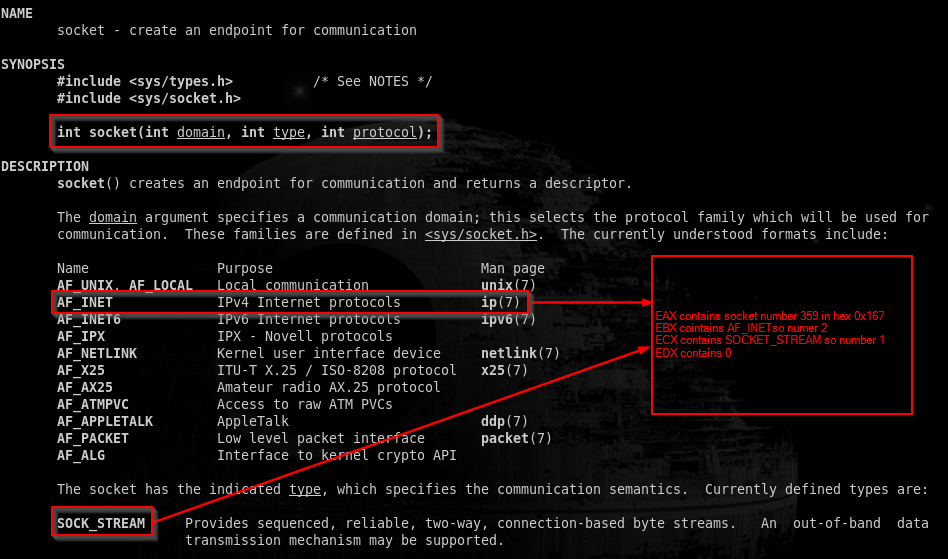
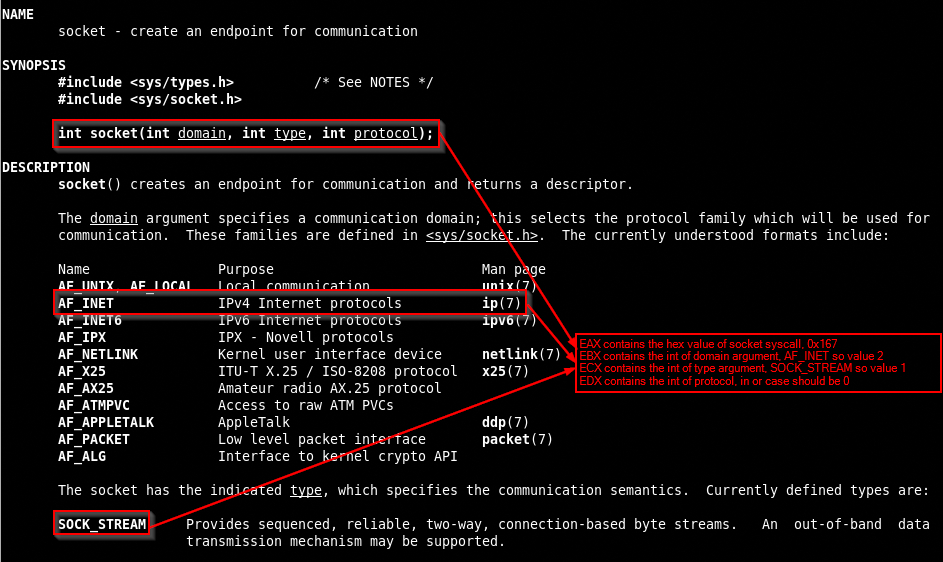
socket update

diff --git a/_posts/2019-09-19-SLAE32-1.md b/_posts/2019-09-19-SLAE32-1.md
@@ -15,7 +15,7 @@ tags:
 ![](/assets/images/SLAE32/shellcoding32.png)
 
 ## Introduction
-This is the first assignment from Viviek Rmachandran SLAE32 course.<br>
+This is the first assignment from Viviek Rmachandran's SLAE32 course.<br>
 The first part of the assignment request to create a Shell_Bind_TCP shellcode with these properties:
 - Binds to a port 
 - Execs Shell on incoming connecton
@@ -25,6 +25,7 @@ According with [Infosec Institute](https://resources.infosecinstitute.com/icmp-r
 > *Bind shell is a type of shell in which the target machine opens up a communication port or a listener on the victim machine and waits for an incoming connection. The attacker then connects to the victim machine’s listener which then leads to code or command execution on the server.* <br>
 
 The last video lesson of SLAE course analyzes a tcp bind shell payload created with msfvenom so the creation process is well documented, well known and the shell structure too, so the effort for this assignment is to pickup infos about all the syscalls needed for the tcp bind shell using the linux kernel unistd.h header and the man 2 <syscall> command.
+We will use also the [Unix Network Programming Vol.1](https://scoecomp.files.wordpress.com/2014/02/2003-unix-network-programming-vol-1-3rd-ed.pdf), that is foundamental to learn the substructures required in some syscalls.
 Starting review the case study in the course, taking the png created with sctest of libemu tool suite, we can extract the elements needed to build our bind shellcode:
 
 - socket
@@ -34,15 +35,19 @@ Starting review the case study in the course, taking the png created with sctest
 - dup2 (3 times)
 - execve
 
-i can simply copy the assembly code, but this is not the scope of the viviek's assignment. What he would to intend with the assignment is to understand how the student should develop a shellcode starting from sudying the linux syscalls, what they need to complete assignment and how they can transform the syscall and its argument in assembly code.
+i can simply copy the assembly code, but this is not the scope of the Viviek's assignment. What he would to intend with the assignment is to understand how the student should develop a shellcode starting from sudying the linux syscalls, what they need to complete assignment and how they can transform the syscall and its argument in assembly code.
 So let's start the fun part.
 
 ## SOCKET
-We can start searching the socket syscall by cat'ting the unistd_32 headers of the linux kerne, then check the socket syscall man page.<br>
+We can start searching the socket syscall by cat'ting the unistd_32 headers of the linux kernel, then check the socket syscall man page.<br>
 ![](/assets/images/SLAE32/assignment_1/socket_1.png)<br>
 ![](/assets/images/SLAE32/assignment_1/socket_2.png)
 ![](/assets/images/SLAE32/assignment_1/socket_3.png)
-Mmm, seems the socket accept 3 arguments.<br>
+Mmm, seems the socket accept 3 arguments, let we check also the book to learn what's the role of there arguments.<br>
+```bash
+man 2 socket
+```
+
 According to what we have studied in the course the infos found with the ```man 2``` command has to be distriuited with this criteria.
 Syscall number have to go in the EAX register, we want a TCP shell so ```int domain``` should be ```AF_INET```, this means a value of 2 saved in the EBX register, ```int type``` should be ```SOCK_STREAM```, this means a value of 1 saved in the ECX register, last ```int protocol``` should be 0 and placed in EDX register.
 Now that we have indentified the socket syscall arguments, what have to be they values and in what register they has to be pushed we can proceed writing the assembly code.
